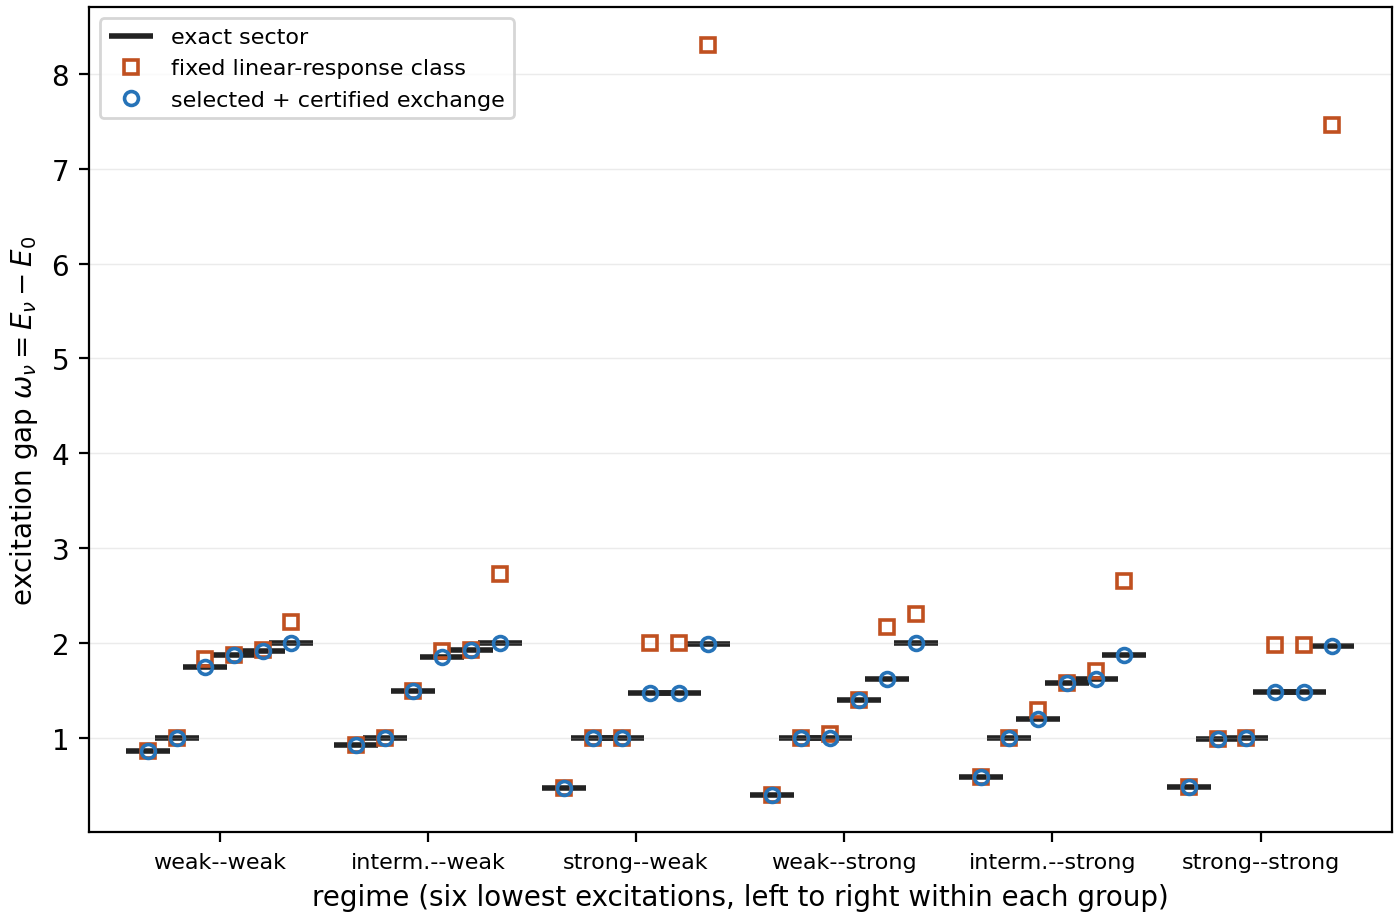
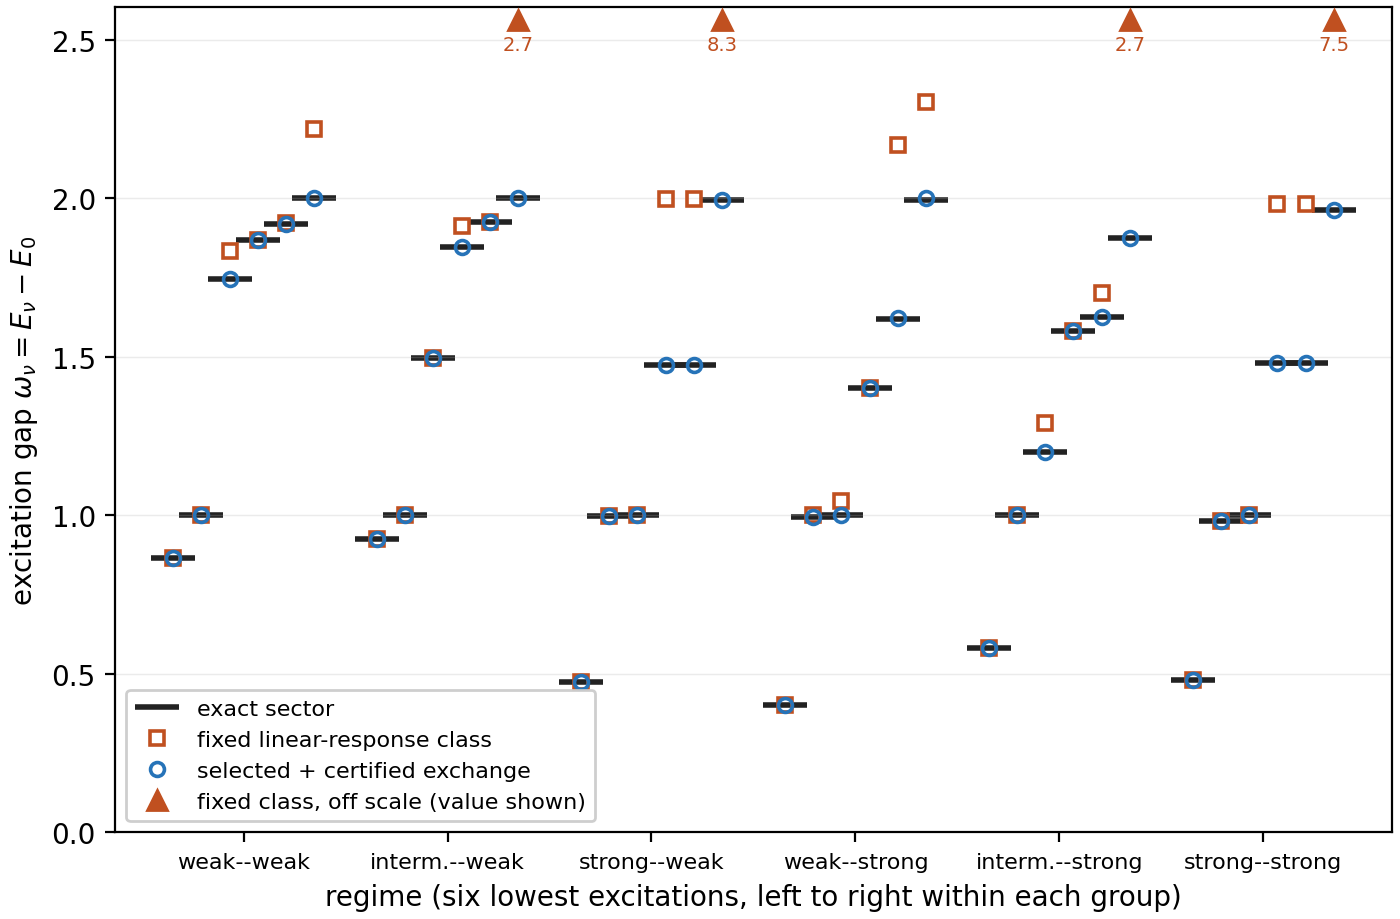
paper-iii: clip gap-figure range with annotated off-scale markers

diff --git a/pipelines/reporting/build_paper_iii_gap_figure.py b/pipelines/reporting/build_paper_iii_gap_figure.py
@@ -61,8 +61,20 @@ def main(argv: Sequence[str] | None = None) -> int:
     matplotlib.use("Agg")
     import matplotlib.pyplot as plt
 
+    # Clip the vertical range to the target window. A handful of fixed-class
+    # roots land far above it; those are drawn as off-scale carets with their
+    # value printed, so nothing is hidden but the informative range stays
+    # readable.
+    exact_max = max(
+        float(r) - float(payload["regimes"][reg]["reference_ground_energy"])
+        for reg in regimes
+        for r in payload["regimes"][reg]["reference_excitations"]
+    )
+    ylim_top = exact_max * 1.30
+
     fig, ax = plt.subplots(figsize=(7.0, 4.6), constrained_layout=True)
     width = 1.0
+    offscale: list[tuple[float, float]] = []
     xticks: list[float] = []
     xlabels: list[str] = []
 
@@ -98,8 +110,15 @@ def main(argv: Sequence[str] | None = None) -> int:
             gaps = [
                 None if e is None else float(e) - float(e0) for e in arm["root_energies"]
             ]
-            xs = [x for x, g in zip(offsets, gaps) if g is not None]
-            ys = [g for g in gaps if g is not None]
+            xs, ys = [], []
+            for x, g in zip(offsets, gaps):
+                if g is None:
+                    continue
+                if g > ylim_top:
+                    offscale.append((x, g))
+                    continue
+                xs.append(x)
+                ys.append(g)
             ax.plot(
                 xs,
                 ys,
@@ -112,12 +131,36 @@ def main(argv: Sequence[str] | None = None) -> int:
                 zorder=2,
             )
 
+    for x, value in offscale:
+        ax.plot(
+            [x], [ylim_top * 0.985], marker="^", color="#c05020", markersize=7, zorder=3
+        )
+        ax.annotate(
+            f"{value:.1f}",
+            (x, ylim_top * 0.985),
+            textcoords="offset points",
+            xytext=(0, -11),
+            ha="center",
+            fontsize=7,
+            color="#c05020",
+        )
+    ax.set_ylim(0.0, ylim_top)
     ax.set_xticks(xticks)
     ax.set_xticklabels(xlabels, fontsize=8)
     ax.set_ylabel(r"excitation gap $\omega_\nu = E_\nu - E_0$")
     ax.set_xlabel("regime (six lowest excitations, left to right within each group)")
     ax.grid(True, axis="y", alpha=0.25, linewidth=0.5)
-    ax.legend(fontsize=8, loc="upper left")
+    if offscale:
+        from matplotlib.lines import Line2D
+
+        handles, labels = ax.get_legend_handles_labels()
+        handles.append(
+            Line2D([], [], marker="^", color="#c05020", linestyle="none", markersize=7)
+        )
+        labels.append("fixed class, off scale (value shown)")
+        ax.legend(handles, labels, fontsize=8, loc="lower left", framealpha=0.95)
+    else:
+        ax.legend(fontsize=8, loc="lower left", framealpha=0.95)
 
     args.output.parent.mkdir(parents=True, exist_ok=True)
     fig.savefig(args.output)

diff --git a/MATH/paper_details/excited_spectra_dynamics_paper_III.tex b/MATH/paper_details/excited_spectra_dynamics_paper_III.tex
@@ -1237,7 +1237,7 @@ its cost.  Regenerated from the committed evidence records by
 
 \begin{figure}[t]
 \includegraphics[width=\columnwidth]{generated/paper_iii_gap_figure.pdf}
-\caption{Excitation gaps $\omega_\nu=E_\nu-E_0$ for the six lowest excitations of each Paper-I regime (ordered left to right within each group): exact sector-restricted spectrum (bars) against the complete fixed linear-response class (squares) and the geometry-selected support with certified exchange (circles).  The selected support lies on the exact ladder in every regime; the fixed class tracks the low roots in the weak-coupling regimes but places its highest represented root far above the window---$8.3$ against $2.0$ at strong--weak and $7.5$ against $2.0$ at strong--strong---and in the two $u=8$ regimes it misses the lowest excitation entirely, its ladder beginning near $\omega=1$ where the exact spectrum begins near $\omega=0.5$.  Being complete, that class cannot be repaired by additional budget.  The maximum-error column of Table~\ref{tab:qse_multiroot_diag} is the scalar summary of these departures.}
+\caption{Excitation gaps $\omega_\nu=E_\nu-E_0$ for the six lowest excitations of each Paper-I regime (ordered left to right within each group): exact sector-restricted spectrum (bars) against the complete fixed linear-response class (squares) and the geometry-selected support with certified exchange (circles).  The vertical range is clipped to the target window; fixed-class roots falling above it are drawn as carets at the top edge with their value printed, so none are omitted.  The selected support lies on the exact ladder in every regime; the fixed class tracks the low roots in the weak-coupling regimes but places its highest represented root far above the window---$8.3$ against $2.0$ at strong--weak and $7.5$ against $2.0$ at strong--strong---and in the two $u=8$ regimes it misses the lowest excitation entirely, its ladder beginning near $\omega=1$ where the exact spectrum begins near $\omega=0.5$.  Being complete, that class cannot be repaired by additional budget.  The maximum-error column of Table~\ref{tab:qse_multiroot_diag} is the scalar summary of these departures.}
 \label{fig:qse_gaps}
 \end{figure}
 
